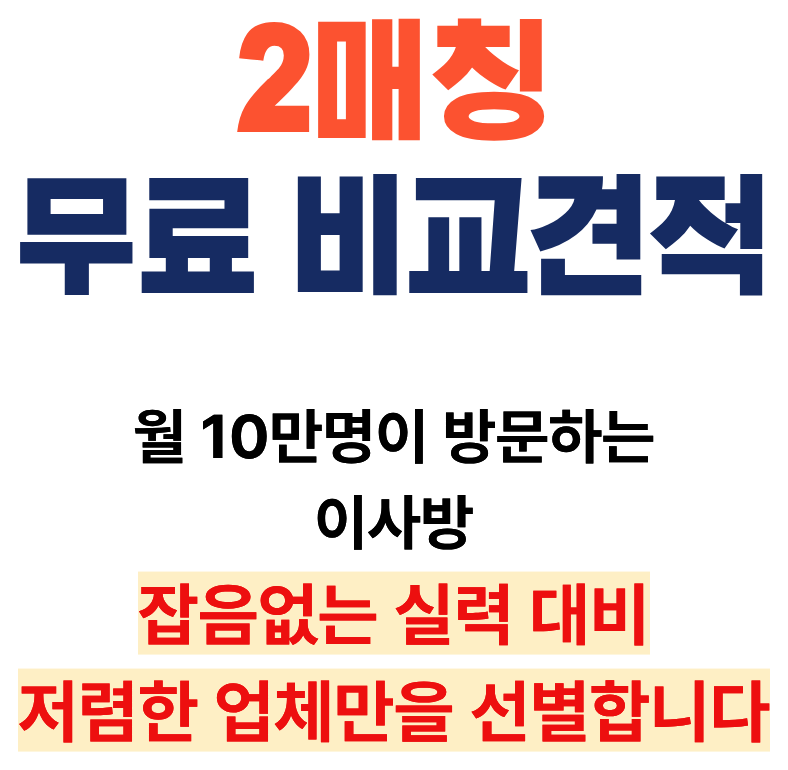
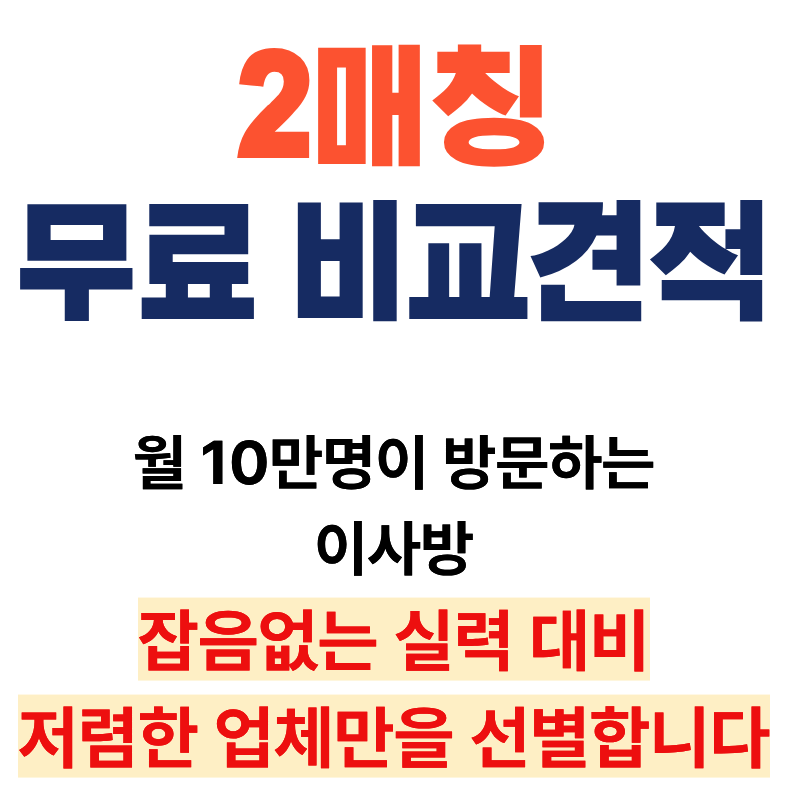
24bang : "2매칭" 위 여백 18 → 44px
배너를 자르는 위치를 y256 → y230 으로 물렸다. "이사방이 검증한"(~y222)
아래 흰 구간이 51px 이라 그 안에서만 늘려 잘린 글자가 다시 나오지 않는다.
788x770 → 788x796.

diff --git a/24bang-meta/index.html b/24bang-meta/index.html
@@ -15,7 +15,8 @@
   · 접수는 디비센스 공식 입력폼(iframe) — 정산 경로 일치
   · 금지 모델(서경석) / AI 생성 이미지 미사용
   · 배너 : img/banner-v6.png = banner-v5.png 위 256px(로고 + "이사방이 검증한")
-           을 잘라낸 것. v5 원본은 img/ 에 그대로 둔다.
+           을 잘라낸 것 (26.09.05 여백 요청으로 256 → 230 완화).
+           v5 원본은 img/ 에 그대로 둔다.
            (v5 는 원본 860x8000 템플릿 상단만 사용, 788x1026)
            헤드라인과 선별문구 사이 여백 171 → 114px 로 좁힘
            하단 도시·트럭 바에 더미 대표전화 02-1234-5678 이 있어 제외
@@ -156,7 +157,7 @@ try{ clarity("set","페이지","24bang-메타"); }catch(e){}
 
   <!-- 1. 배너 -->
   <div class="banner">
-    <img src="/24bang-meta/img/banner-v6.png" width="788" height="770"
+    <img src="/24bang-meta/img/banner-v6.png" width="788" height="796"
          alt="2매칭 무료 비교견적 · 월 10만명이 방문하는 이사방 · 잡음없는 실력 대비 저렴한 업체만을 선별합니다">
   </div>
 

diff --git a/24bang/index.html b/24bang/index.html
@@ -15,7 +15,8 @@
   · 접수는 디비센스 공식 입력폼(iframe) — 정산 경로 일치
   · 금지 모델(서경석) / AI 생성 이미지 미사용
   · 배너 : img/banner-v6.png = banner-v5.png 위 256px(로고 + "이사방이 검증한")
-           을 잘라낸 것. v5 원본은 img/ 에 그대로 둔다.
+           을 잘라낸 것 (26.09.05 여백 요청으로 256 → 230 완화).
+           v5 원본은 img/ 에 그대로 둔다.
            (v5 는 원본 860x8000 템플릿 상단만 사용, 788x1026)
            헤드라인과 선별문구 사이 여백 171 → 114px 로 좁힘
            하단 도시·트럭 바에 더미 대표전화 02-1234-5678 이 있어 제외
@@ -156,7 +157,7 @@ try{ clarity("set","페이지","24bang-당근"); }catch(e){}
 
   <!-- 1. 배너 -->
   <div class="banner">
-    <img src="/24bang/img/banner-v6.png" width="788" height="770"
+    <img src="/24bang/img/banner-v6.png" width="788" height="796"
          alt="2매칭 무료 비교견적 · 월 10만명이 방문하는 이사방 · 잡음없는 실력 대비 저렴한 업체만을 선별합니다">
   </div>
 
